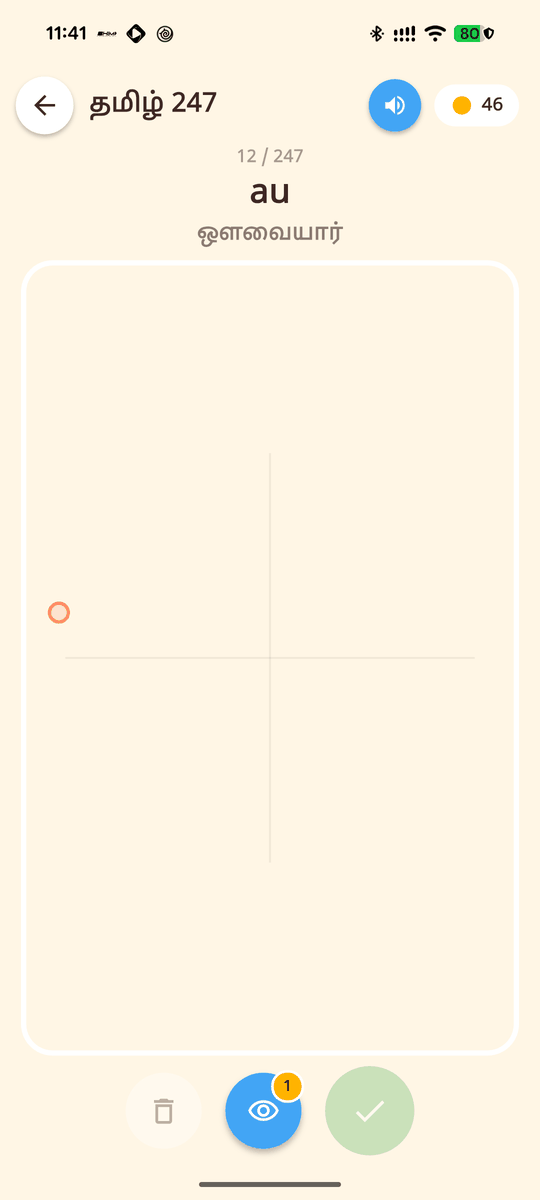
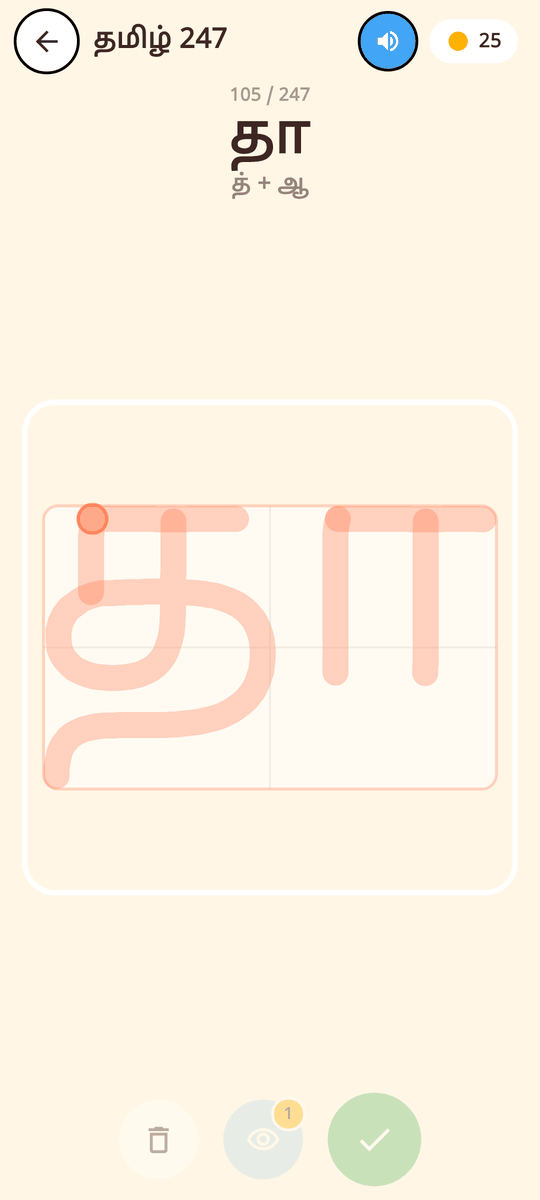
Add Play Store links for QR File Share and Kids Tamil Ezhuthu School

diff --git a/kids_tamil_ezhuthu_school/index.html b/kids_tamil_ezhuthu_school/index.html
@@ -40,7 +40,7 @@
     <div class="detail-layout">
       <div class="detail-main">
         <h2>Overview</h2>
-        <p>A Tamil-first Flutter app for children aged roughly 4–8, teaching every one of Tamil's 247 characters — the 12 vowels, 18 consonants, and all 216 vowel-consonant combinations — plus 6 additional characters used for borrowed sounds. Each letter is traced on a landscape canvas across four difficulty levels, from a fully guided tube-and-waypoint mode down to a freehand shape exam, with every layer of the canvas — the guide, the fill, the scoring — derived from the same stroke path so nothing on screen ever disagrees with what's being measured.</p>
+        <p>A Tamil-first Flutter app for children aged roughly 4–8, teaching every one of Tamil's 247 characters — the 12 vowels plus the ஃ aaytham, 18 consonants, and all 216 vowel-consonant combinations. A further 6 characters for sounds Tamil has borrowed are taught afterward as their own set. Each letter is traced on a landscape canvas across four difficulty levels, from a fully guided tube-and-waypoint mode down to a freehand shape exam, with every layer of the canvas — the guide, the fill, the scoring — derived from the same stroke path so nothing on screen ever disagrees with what's being measured.</p>
         <p>Stroke order couldn't be guessed from a font: a typeface has the correct letterform but no notion of what a hand draws first, so each character's writing order comes from a dedicated authoring pipeline and a stroke-order reference, verified by hand rather than shipped unchecked. Beyond tracing, a Word Builder game teaches children to compose real Tamil words by dragging and combining the 31 base characters — nothing pre-built is ever handed over. The whole app is built child-safety-first: no login, no accounts, no chat, no analytics, and every byte of a child's progress and drawings stays on the device.</p>
 
         <h2>Key features</h2>
@@ -84,7 +84,7 @@
 
   // ---- Key features (edit this array freely) ----
   const KEY_FEATURES = [
-    "All 247 core Tamil characters — 12 vowels, 18 consonants, 216 vowel-consonant forms — plus 6 borrowed-sound characters",
+    "All 247 core Tamil characters — 12 vowels, the ஃ aaytham, 18 consonants, and 216 vowel-consonant forms — plus a separate set of 6 borrowed-sound characters",
     "Real, hand-verified stroke order for every letter, not auto-derived from font outlines",
     "Four tracing difficulty modes — Easy, Medium, Hard, Challenge — with live shape-accuracy scoring on the freehand exam",
     "Word Builder game: compose real Tamil words by dragging and combining the 31 base characters",
@@ -114,13 +114,11 @@
 
   // ---- Links (fill these in once published — leave empty to show "Coming soon") ----
   const LINKS = {
-    androidStore: "",
-    sourceCode: "",
+    androidStore: "https://play.google.com/store/apps/details?id=com.udmnxpdu.kids_tamil_ezhuthu_school",
     privacyPolicy: "privacy-policy.html"
   };
   const LINK_LABELS = {
     androidStore: { label: "Get it on Google Play", icon: "android" },
-    sourceCode: { label: "Source code", icon: "github" },
     privacyPolicy: { label: "Privacy policy", icon: "shield" }
   };
   const linksList = document.getElementById("links-list");

diff --git a/qr-file-share/index.html b/qr-file-share/index.html
@@ -112,7 +112,7 @@
 
   // ---- Links (fill these in once published — leave empty to show "Coming soon") ----
   const LINKS = {
-    androidStore: "",
+    androidStore: "https://play.google.com/store/apps/details?id=com.udmnxpdu.qr_file_share",
     windowsDownload: "downloads/QRFileShare-Windows-v1.0.0.zip",
     sourceCode: "",
     privacyPolicy: "privacy-policy.html"
